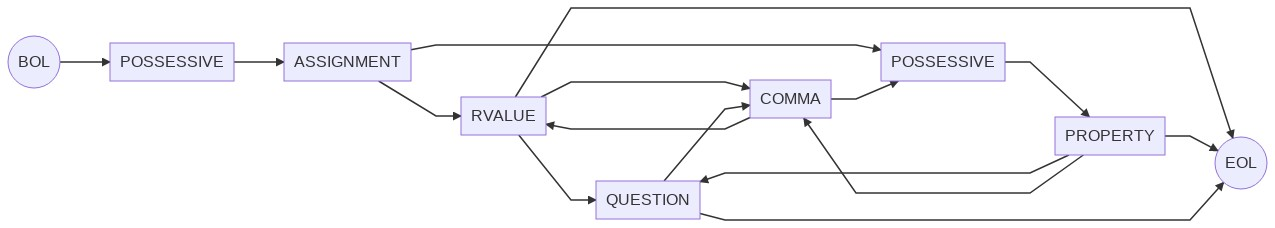
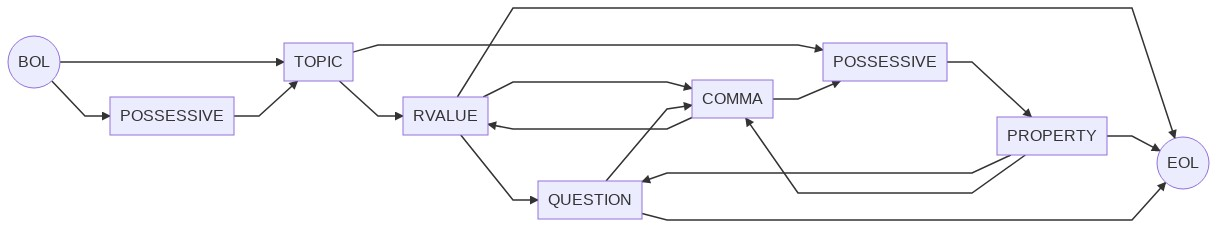
update documentation

diff --git a/documentation/planning.md b/documentation/planning.md
@@ -4,11 +4,6 @@
 
 ## v2.0.0
 
-### Rename Assignment Token
-
-* ASSIGNMENT → TOPIC
-(Also let's move resolvers out to another module?)
-
 ### Argv
 
 * Reserve `引数列`
@@ -22,9 +17,11 @@
 ### Try-Catch
 
 * Try: `試す`
-* Catch: `例外があれば` or `問題があれば` (space?)
-* Error message is stored in `それ`
+* Store error in special variable `例外`
+* "Catch" is just an if-statement `もし 例外が あれば`
+  * `IF SUBJECT COMP_2_BE`
 * Abstract `with scope` logic (dup'd in if-statements, loops, whiles)
+* update about (`$?` like Perl)
 * update manual
 * update manual jp
 * update nfsm
@@ -104,6 +101,62 @@ Write an example for finding number of 1 bits in a number or binary representati
   * Particularly: for every function call, arguments are resolved TWICE
   * maybe use optional blocks? `yield if block_given?`
 * Find a way to avoid copying sd arrays every time they're resolved (ONLY copy when they're modified?)
+
+## v2.2.0
+
+### File IO
+
+* Built-ins
+  * Open `「ファイル名」を 開く`
+  * Close `ファイルハンドルを 閉じる`
+  * Read Line `ファイルハンドルを 読み込む`
+  * Read All `ファイルハンドルを 全部読み込む`
+  * Write `ファイルハンドルに 「テキスト」を 書き込む`
+    * Syntax: `|%(書き込|[書か]きこ)(む|ん[でだ])`
+
+### Load Files
+
+* It might be neat to add a way to load other Snapdragon files. This would let anyone make plugins for Snapdragon, written entirely in Snapdragon.
+* Need some sort of directive... Like `→「プラグイン」` or something?
+* Or built-in `「プラグイン名」を 導入する` (limited to root scope)
+
+```
+ファイル名を オプションと CSV読み込むとは
+　「ファイル名」を 開く
+　ファイルは それ
+
+　ヘッダーは 無
+　もし オプションの 「ヘッダーあり？」が はい ならば
+　　ファイルを 読み込んで
+　　それを 「,」で 分割する
+　　ヘッダーは それ
+
+　　値列を ヘッダーに組み合わせるとは
+　　　組み合わせた列は 連想配列
+　　　値列の 長さから 1を 引いて
+　　　0から それまで 繰り返す
+　　　　指数は それ
+　　　　カラム名は ヘッダーの 指数
+　　　　組み合わせた列の カラム名は 値列の 指数
+　　　組み合わせた列と なる
+
+　結果列は 配列
+　繰り返す
+　　ファイルから 先頭を引き出す
+　　もし それが 無 ならば
+　　　終わり
+　　ファイルを 読み込んで
+　　それを 「,」で 分割して
+　　行は それ
+
+　　もし ヘッダー？ ならば
+　　　行を ヘッダーに組み合わせる
+　　　行は それ
+
+　　結果列に 行を 押し込む
+
+　結果列を 返す
+```
 
 ---
 

diff --git a/documentation/nfsm.md b/documentation/nfsm.md
@@ -9,7 +9,7 @@ The diagrams below describe the different sequences supported by 金魚草's gra
 ```
 BOL
 POSSESSIVE ?
-ASSIGNMENT
+TOPIC
 ( RVALUE | ( POSSESSIVE PROPERTY ) )
 QUESTION ?
 (
@@ -23,10 +23,11 @@ EOL
 ```mermaid
 graph LR
   BOL((BOL)) --> POSSESSIVE_1[POSSESSIVE]
-  POSSESSIVE_1[POSSESSIVE] --> ASSIGNMENT
+  BOL --> TOPIC
+  POSSESSIVE_1[POSSESSIVE] --> TOPIC
 
-  ASSIGNMENT --> RVALUE
-  ASSIGNMENT --> POSSESSIVE_2[POSSESSIVE]
+  TOPIC --> RVALUE
+  TOPIC --> POSSESSIVE_2[POSSESSIVE]
 
   RVALUE --> EOL
   RVALUE --> QUESTION
